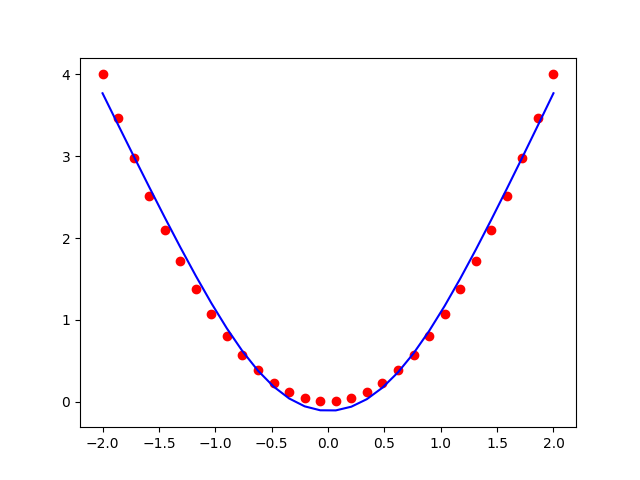
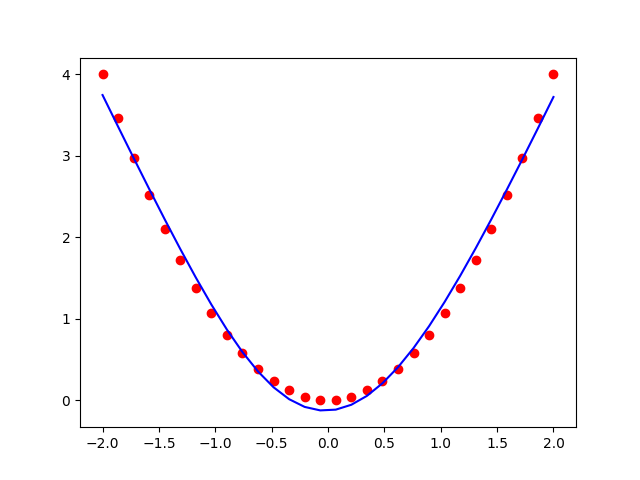
Analyzing extra outputs

diff --git a/examples/diw_matrix/nn_2.py b/examples/diw_matrix/nn_2.py
@@ -81,7 +81,10 @@ def train(X, Y, model, loss_function, optim, num_epochs):
         
         Y_pred = model(X)
         #print(Y_pred.shape)
-        loss = loss_function(Y_pred[:,0], Y[:,0])
+        #loss = loss_function(Y_pred[:,0], Y[:,0]) #+ loss_function(Y_pred[:,1], Y[:,1])
+        #loss = loss_function(Y_pred[:,0], Y[:,0]) + 100.*loss_function(Y_pred[:,1], Y[:,1])
+        loss = loss_function(Y_pred[:,0], Y[:,0]) #+ loss_function(Y_pred[:,1], Y[:,0]) #+ 0.5*loss_function(Y_pred[:,0], Y_pred[:,1])
+        #loss = loss_function(Y_pred[:,0], Y[:,0]) + loss_function(Y_pred[:,1], Y[:,0]) + loss_function(Y_pred[:,2], Y[:,0]) + loss_function(Y_pred[:,3], Y[:,0])
         if (epoch % 10 == 0): 
             print(f'epoch: {epoch}, loss = {loss.item():.4f}')
         
@@ -110,7 +113,7 @@ targets = Y
 # set neural network parameters
 
 #layer_sizes = [4,4,4] # 3 layer total (input, hidden, and output)
-layer_sizes = [4,4,4,4,4,4,4,4,4]
+layer_sizes = [4,4,4,4,4,4]
 
 # define model
 
@@ -123,11 +126,11 @@ network = Nonlinear(layer_sizes)
 
 # Define optimizer.
 #optim = torch.optim.SGD(nonlinear_model.parameters(), lr=0.2)
-optim = torch.optim.Adam(network.parameters(), lr=0.005)
+optim = torch.optim.Adam(network.parameters(), lr=0.0005)
 loss_function = nn.MSELoss()
 
 # Train the model 
-outputs_model = train(X, Y, network, loss_function, optim, num_epochs=200000)
+outputs_model = train(X, Y, network, loss_function, optim, num_epochs=80000)
 
 print("Mean/max 3rd output:")
 print(torch.mean(outputs_model[:,2]))
@@ -143,7 +146,22 @@ yaxis = outputs[:,0]
 #print(yaxis)
 
 plt.plot(xaxis, yaxis, 'r-')
-plt.plot(xaxis, outputs_model.detach().numpy()[:,0], 'b-')
+plt.plot(xaxis, outputs_model.detach().numpy()[:,0], 'bo')
 #plt.plot(X.numpy(), predicted, 'b')
-#plt.savefig("fit.png")
-plt.show()
+plt.savefig("first_output.png", dpi=500)
+#plt.show()
+
+"""
+plt.clf()
+plt.plot(xaxis, outputs[:,0], 'r-')
+plt.plot(xaxis, outputs_model.detach().numpy()[:,1], 'bo')
+plt.savefig("second_output.png", dpi=500)
+"""
+
+plt.clf()
+plt.plot(xaxis, outputs[:,0], 'r-')
+plt.plot(xaxis, outputs_model.detach().numpy()[:,0], 'bo')
+plt.plot(xaxis, outputs_model.detach().numpy()[:,1], 'ko', markersize=0.5)
+plt.plot(xaxis, outputs_model.detach().numpy()[:,2], 'go', markersize=0.5)
+plt.plot(xaxis, outputs_model.detach().numpy()[:,3], 'ro', markersize=0.5)
+plt.savefig("all_output.png", dpi=500)

diff --git a/examples/diw/nn_2.py b/examples/diw/nn_2.py
@@ -8,6 +8,7 @@ import torch
 from torch import nn
 from torch import tensor
 import scipy.io as sio
+import time
 
 def create_torch_network(layer_sizes):
     """
@@ -124,10 +125,12 @@ model = FitTorch(network_architecture)
 
 # get ready for fitting
 
-nepochs = 500000
+nepochs = 50000
 device = torch.device("cuda" if torch.cuda.is_available() else "cpu")
 loss_function = torch.nn.MSELoss()
 optimizer = torch.optim.Adam(model.parameters(), lr=0.0005)
+
+start = time.time()
 
 # training loop
 
@@ -145,6 +148,12 @@ for epoch in range(nepochs):
         optimizer.step()
 
 # plot
+
+end = time.time()
+
+time_elapsed = end - start
+time_per_epoch = time_elapsed/nepochs
+print(f"time per epoch: {time_per_epoch} s")
 
 xaxis = np.arange(0,196,1,dtype=int)
 yaxis = outputs[:,0]

diff --git a/examples/diw_matrix/nn_quadratic.py b/examples/diw_matrix/nn_quadratic.py
@@ -71,6 +71,8 @@ class Nonlinear(nn.Module):
     # Feed fordward function - here we use matrix/tensor operations to calculate the output of the neural network
     #                          given some inputs "x".
     def forward(self, x):
+        print(x.size())
+        print(self.layer_1_weights.size())
         x = x.matmul(self.layer_1_weights).add(self.layer_1_bias)
         x = x.sigmoid()
         x = x.matmul(self.layer_2_weights).add(self.layer_2_bias)
